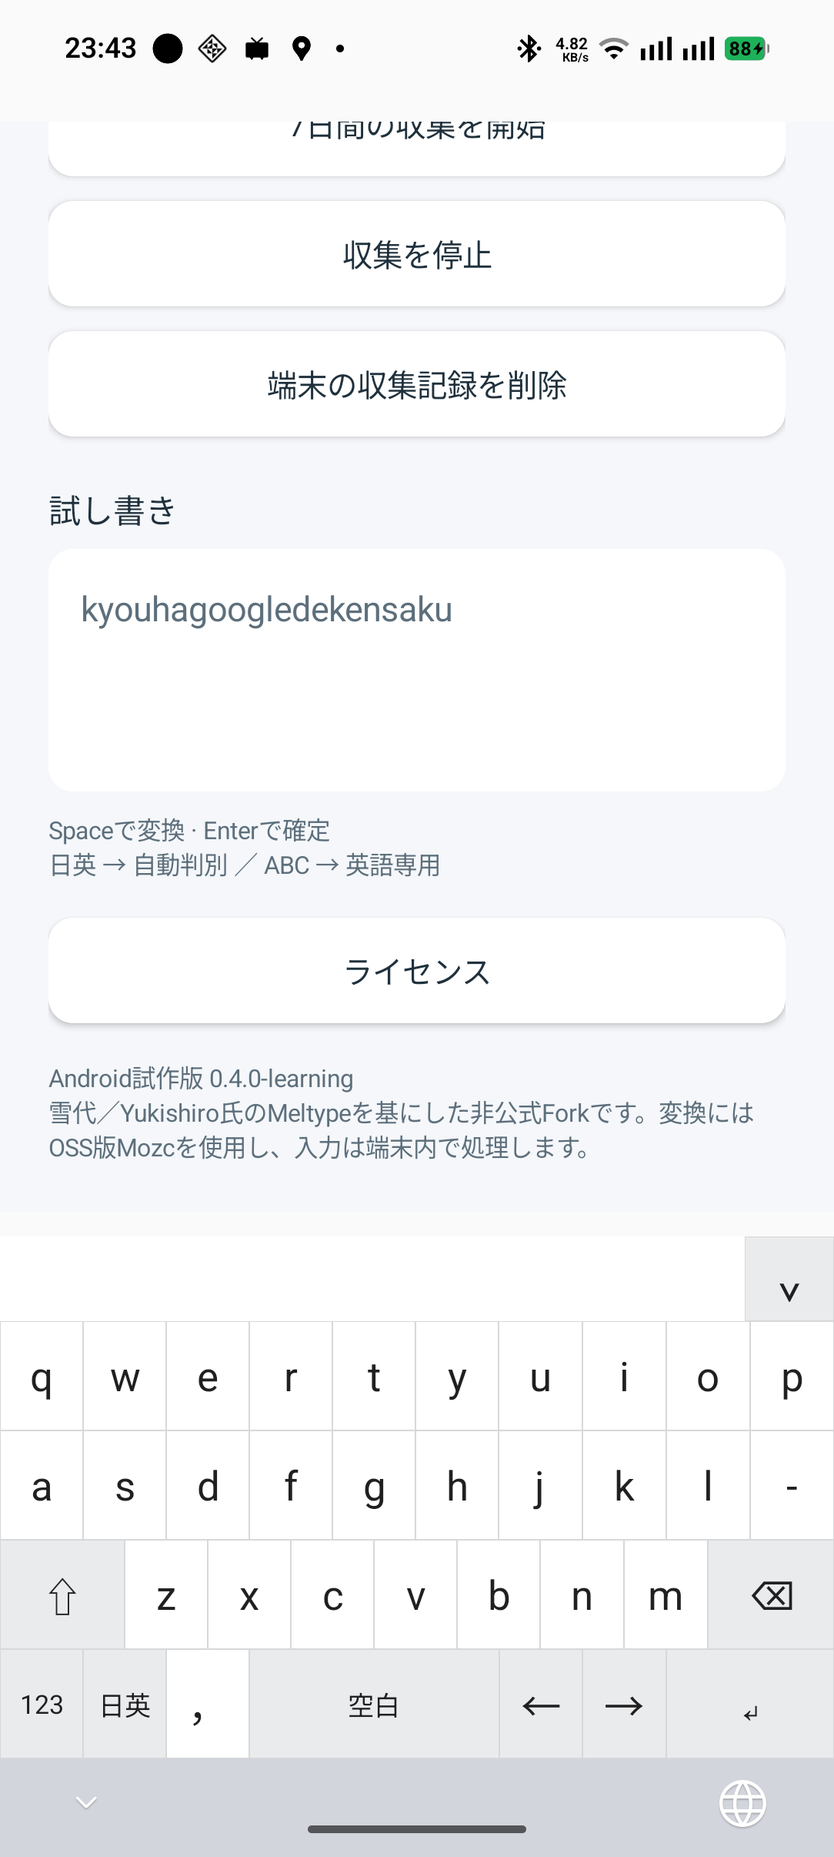
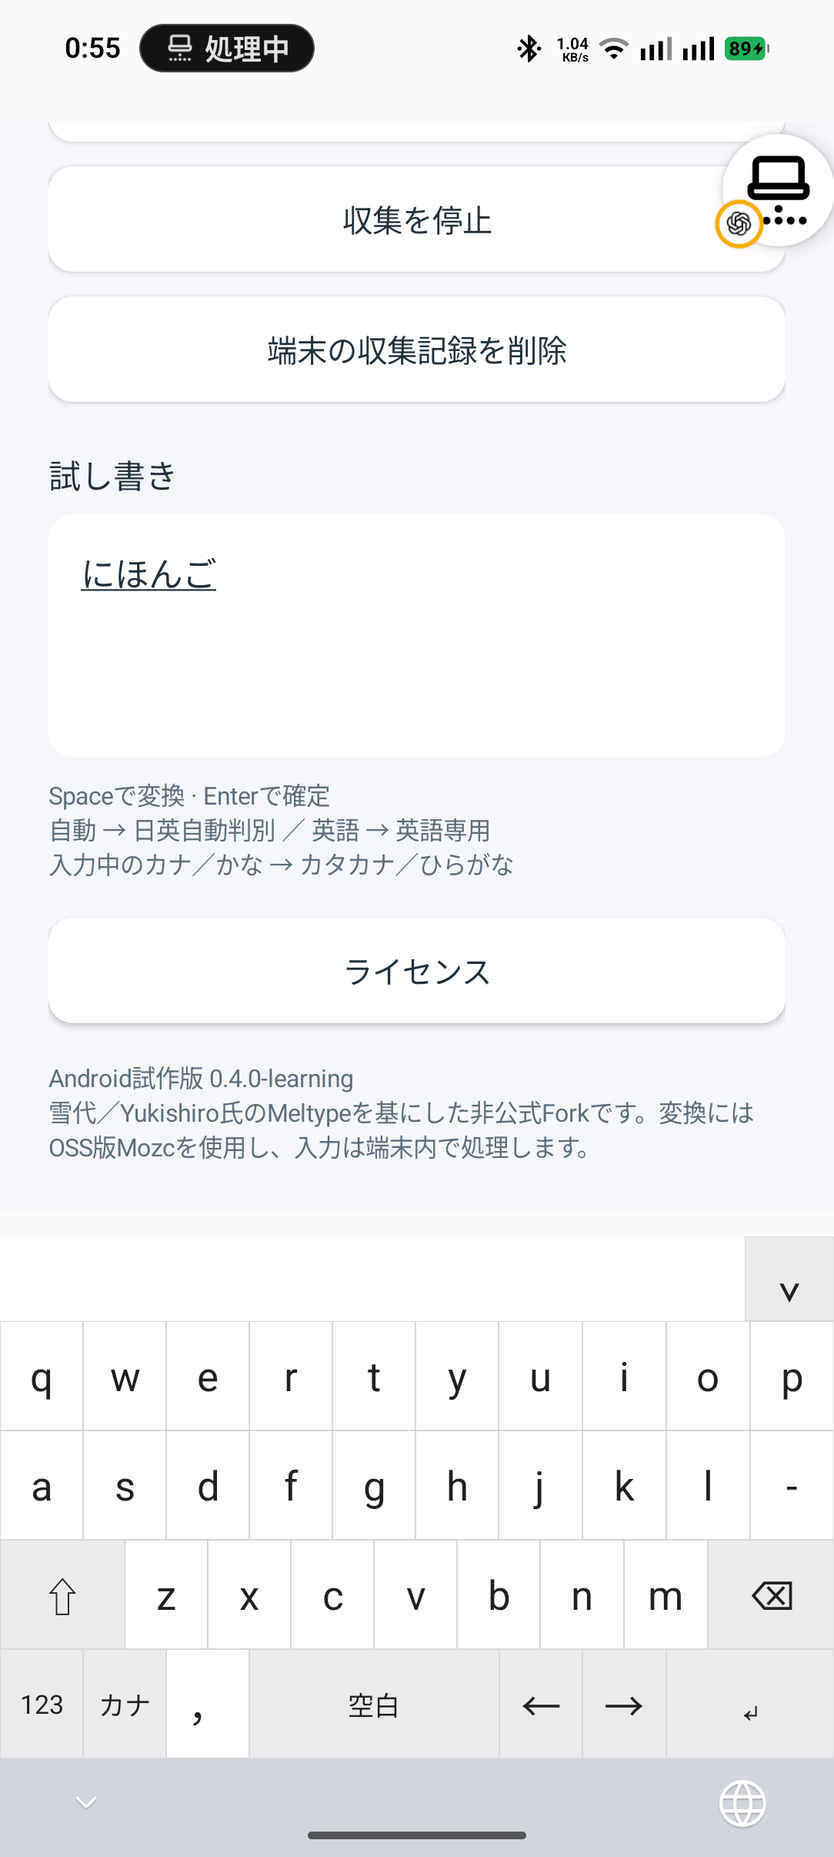
Androidの大文字固定と括弧入力とカナ切替を追加

diff --git a/android/Meltype.Android/KeyboardService.cs b/android/Meltype.Android/KeyboardService.cs
@@ -39,6 +39,7 @@ public sealed class KeyboardService : InputMethodService
     private Button? _hide;
     private LinearLayout? _keyRows;
     private bool _symbols;
+    private bool _shownKatakana;
     private readonly List<(Button Key, char Letter)> _letters = [];
     private bool _english, _restricted, _ready;
     private bool _preeditActive;
@@ -114,7 +115,7 @@ public sealed class KeyboardService : InputMethodService
         CancelTouches();
         _touches.Clear();
         _keyRows.RemoveAllViews(); _letters.Clear(); _shift = null;
-        foreach (var row in _symbols ? new[] { "1234567890", "@#¥%&-+()/", "「」.,?!:;\"" } : new[] { "qwertyuiop", "asdfghjkl-", "zxcvbnm" })
+        foreach (var row in _symbols ? new[] { "1234567890", "@#¥%&-+()/", "「」.,?!:;\"", "{}[]【】『』" } : new[] { "qwertyuiop", "asdfghjkl-", "zxcvbnm" })
         {
             var line = new LinearLayout(this) { BaselineAligned = false };
             var shortRow = row.Length == 7;
@@ -125,11 +126,13 @@ public sealed class KeyboardService : InputMethodService
             }
             foreach (var c in row)
             {
-                var key = AddKey(line, c.ToString(), () => Input(_shiftState.Apply(c)));
+                var pair = c switch { '(' => "()", '「' => "「」", '{' => "{}", '[' => "[]", '【' => "【】", '『' => "『』", _ => null };
+                var key = pair != null ? AddKey(line, pair, () => InsertBracketPair(pair), description: "括弧 " + pair + "を入力して内側へ移動")
+                    : AddKey(line, c.ToString(), () => Input(_shiftState.Apply(c)));
                 if (char.IsLetter(c)) _letters.Add((key, c));
             }
             if (shortRow) AddKey(line, "⌫", () => Special(0x08), 1.5f, description: "削除、長押しで連続削除", repeat: true);
-            else if (_symbols && row.StartsWith('「')) AddKey(line, "⌫", () => Special(0x08), description: "削除、長押しで連続削除", repeat: true);
+            else if (_symbols && row.StartsWith('{')) AddKey(line, "⌫", () => Special(0x08), description: "削除、長押しで連続削除", repeat: true);
             _keyRows.AddView(line);
         }
         var controls = new LinearLayout(this) { BaselineAligned = false };
@@ -140,13 +143,15 @@ public sealed class KeyboardService : InputMethodService
             _editCapture?.Cancel();
 #endif
             if (_restricted || !_ready) return;
+            if (!_english && !string.IsNullOrEmpty(_shownView?.Text))
+            { Queue(() => _session?.ToggleKana()); return; }
             _english = !_english;
             var english = _english;
             Queue(() => _session?.SetEnglish(english)); Status();
         }, description: "英語専用モードに切り替える");
         _punctuation = AddKey(controls, ",", () => Input(_punctuationInput));
         _punctuation.ContentDescription = "句読点、文末はピリオド、長押しでピリオド";
-        _punctuation.LongClick += (_, e) => { Input('.'); _shiftState.Reset(); Status(); e.Handled = true; };
+        _punctuation.LongClick += (_, e) => { Input('.'); _shiftState.Consume(); Status(); e.Handled = true; };
         AddKey(controls, "空白", () => Input(' '), 3, description: "空白・変換");
         AddKey(controls, "←", () => Special(0x25), description: "左へ移動");
         AddKey(controls, "→", () => Special(0x27), description: "右へ移動");
@@ -157,7 +162,7 @@ public sealed class KeyboardService : InputMethodService
     {
         var key = new Button(this) { Text = label, TextSize = label.Length > 1 ? 13 : 20, ContentDescription = description ?? label };
         key.SetSingleLine(true);
-        MobileStyle.KeyboardKey(key, function: label.Length > 1 || label is "⇧" or "⌫" or "↵" or "←" or "→"); Action invoke = () => { action(); if (label != "⇧") { _shiftState.Reset(); Status(); } };
+        MobileStyle.KeyboardKey(key, function: label.Length > 1 || label is "⇧" or "⌫" or "↵" or "←" or "→"); Action invoke = () => { action(); if (label != "⇧") { _shiftState.Consume(); Status(); } };
         key.Click += (_, _) => invoke();
         if (label != ",")
         {
@@ -214,7 +219,9 @@ public sealed class KeyboardService : InputMethodService
     }
     public override void OnFinishInputView(bool finishingInput)
     {
-        CancelTouches(); base.OnFinishInputView(finishingInput);
+        CancelTouches(); _shiftState.Reset();
+        if (_symbols) { _symbols = false; BuildKeyRows(); }
+        Status(); base.OnFinishInputView(finishingInput);
     }
     public override void OnUpdateSelection(int oldSelStart, int oldSelEnd, int newSelStart, int newSelEnd, int candidatesStart, int candidatesEnd)
     {
@@ -284,6 +291,7 @@ public sealed class KeyboardService : InputMethodService
     private void Output(int operation, string text, CompositionView? view)
     {
         var generation = _jobGeneration;
+        var katakana = _session?.Katakana == true;
         _main!.Post(() =>
         {
             if (generation != Volatile.Read(ref _generation)) return;
@@ -297,8 +305,9 @@ public sealed class KeyboardService : InputMethodService
             }
             else if (operation == 3) editor.DeleteSurroundingTextInCodePoints(int.Parse(text), 0);
             else if (operation == 4) Enter();
+            else if (operation == 7) { editor.CommitText(text, 1); _preeditActive = false; MoveCursor(Keycode.DpadLeft); }
             else if (operation is 5 or 6) MoveCursor(operation == 5 ? Keycode.DpadLeft : Keycode.DpadRight);
-            _shownView = view; RefreshPunctuation();
+            _shownView = view; _shownKatakana = katakana; Status();
             if (_hide != null) _hide.Visibility = view is { Candidates.Count: > 0 } ? ViewStates.Gone : ViewStates.Visible;
             var signature = view == null ? "" : string.Join('\0', view.Candidates.Take(24)) + "\u0001" + view.SelectedIndex;
             if (_candidateSignature == signature) return;
@@ -316,11 +325,19 @@ public sealed class KeyboardService : InputMethodService
 #if TRAINING_BUILD
                         FinishTrainingQueued();
 #endif
-                        _shiftState.Reset(); Status(); Queue(() => _session?.Select(index));
+                        _shiftState.Consume(); Status(); Queue(() => _session?.Select(index));
                     };
                     _candidates.AddView(button, new LinearLayout.LayoutParams(-2, Dp(42)));
                 }
         });
+    }
+    private void InsertBracketPair(string pair)
+    {
+#if TRAINING_BUILD
+        FinishTrainingQueued();
+#endif
+        if (_restricted) { CurrentInputConnection?.CommitText(pair, 1); MoveCursor(Keycode.DpadLeft); return; }
+        Queue(() => _session?.InsertBracketPair(pair));
     }
     private void MoveCursor(Keycode code)
     {
@@ -360,12 +377,15 @@ public sealed class KeyboardService : InputMethodService
         RefreshPunctuation();
         if (_mode != null)
         {
-            _mode.Text = _restricted || _english ? "ABC" : "日英";
-            _mode.ContentDescription = _english ? "日英自動判別に戻る" : "英語専用モードに切り替える";
+            var pending = !_restricted && !_english && !string.IsNullOrEmpty(_shownView?.Text);
+            _mode.Text = pending ? (_shownKatakana ? "かな" : "カナ") : _restricted || _english ? "英語" : "自動";
+            _mode.ContentDescription = pending ? (_shownKatakana ? "未確定文字をひらがなにする" : "未確定文字をカタカナにする") : _english ? "日英自動判別に戻る" : "英語専用モードに切り替える";
             _mode.Enabled = _ready && !_restricted;
         }
         foreach (var (key, letter) in _letters) key.Text = (_shiftState.Active ? char.ToUpperInvariant(letter) : letter).ToString();
-        if (_shift != null) _shift.SetTypeface(null, _shiftState.Active ? TypefaceStyle.Bold : TypefaceStyle.Normal);
+        if (_shift != null) { _shift.Text = _shiftState.Locked ? "⇪" : "⇧";
+            _shift.ContentDescription = _shiftState.Locked ? "大文字固定を解除" : "Shift、2回押すと大文字固定";
+            _shift.SetTypeface(null, _shiftState.Active ? TypefaceStyle.Bold : TypefaceStyle.Normal); }
     }
     public override void OnDestroy()
     {

diff --git a/android/tools/test_input_actions.py b/android/tools/test_input_actions.py
@@ -1,0 +1,51 @@
+"""Exercise the requested keyboard actions in the app's non-learning trial field."""
+import runpy
+import time
+from pathlib import Path
+ns = runpy.run_path(str(Path(__file__).with_name('test_setup_editor.py')))
+adb, tree, edges, package = (ns[k] for k in ('adb', 'tree', 'edges', 'PACKAGE'))
+cache = {}
+def find(description):
+    cache.clear()
+    cache.update({n.get('content-desc'): n for n in tree().iter('node') if n.get('package') == package and n.get('content-desc')})
+    return cache[description]
+def tap(description):
+    l,t,r,b = edges(cache.get(description) if description in cache else find(description)); adb('shell','input','tap',str((l+r)//2),str((t+b)//2)); time.sleep(.15)
+    if description in ('数字・記号と英字配列を切り替える','キーボードを閉じる'): cache.clear()
+def text():
+    return next(n.get('text') for n in tree().iter('node') if n.get('resource-id') == package + ':id/test_editor')
+def fresh():
+    cache.clear()
+    runpy.run_path(str(Path(__file__).with_name('test_setup_editor.py')))
+assert find('英語専用モードに切り替える').get('text') == '自動'
+tap('英語専用モードに切り替える')
+assert find('日英自動判別に戻る').get('text') == '英語'
+tap('Shift、2回押すと大文字固定'); tap('Shift、2回押すと大文字固定')
+tap('a'); tap('b')
+assert text() == 'AB', 'Caps Lock did not persist'
+tap('大文字固定を解除'); tap('c')
+assert text() == 'ABc', 'Caps Lock did not release'
+tap('数字・記号と英字配列を切り替える'); tap('括弧 ()を入力して内側へ移動')
+tap('数字・記号と英字配列を切り替える'); tap('x')
+assert text() == 'ABc(x)', 'Bracket cursor did not move inside'
+expected = 'ABc(x'
+for pair in ('「」', '{}', '[]', '【】', '『』'):
+    tap('数字・記号と英字配列を切り替える')
+    tap('括弧 ' + pair + 'を入力して内側へ移動')
+    tap('数字・記号と英字配列を切り替える'); tap('x')
+    expected += pair[0] + 'x'
+assert text() == expected + '』】]}」)', 'Nested bracket cursors did not move inside all six pairs'
+
+tap('数字・記号と英字配列を切り替える'); tap('キーボードを閉じる')
+root = tree(); editor = next(n for n in root.iter('node') if n.get('resource-id') == package + ':id/test_editor')
+l,t,r,b = edges(editor); adb('shell','input','tap',str((l+r)//2),str((t+b)//2)); time.sleep(.5)
+find('q')
+fresh()
+for c in 'nihongo': tap(c)
+tap('空白・変換')
+assert find('未確定文字をカタカナにする').get('text') == 'カナ'
+tap('未確定文字をカタカナにする')
+assert text() == 'ニホンゴ', 'Katakana action committed or lost conversion'
+assert find('未確定文字をひらがなにする').get('text') == 'かな'; tap('未確定文字をひらがなにする')
+assert text() == 'にほんご', 'Hiragana action failed'
+print('PASS: Caps Lock, symbol layout reset, all six bracket cursors, kana conversion and key labels')

diff --git a/android/Meltype.Android.Tests/Program.cs b/android/Meltype.Android.Tests/Program.cs
@@ -46,6 +46,35 @@ shift.Toggle(); shift.Reset();
 if (shift.Active || shift.Apply('a') != 'a') throw new Exception("Other key did not release Shift.");
 Console.WriteLine("PASS: punctuation prediction follows output; Shift releases after one character or other action");
 
+shift.Toggle(); shift.Toggle();
+if (!shift.Locked || shift.Apply('a') != 'A' || shift.Apply('b') != 'B') throw new Exception("Double Shift did not lock capitals.");
+shift.Consume();
+if (!shift.Locked) throw new Exception("Other action cleared Caps Lock.");
+shift.Toggle();
+if (shift.Active || shift.Locked) throw new Exception("Shift did not unlock capitals.");
+var modeOps = new List<(int Op, string Text)>();
+var modes = new AndroidInputSession(new FakeConverter(), _ => [], (op, text, _) => modeOps.Add((op,text)));
+foreach (var c in "nihongo") modes.Character(c);
+modes.Character(' '); modeOps.Clear(); modes.ToggleKana();
+if (modes.View?.Text != "ニホンゴ" || !modes.Katakana || modeOps.Any(o => o.Op == 1)) throw new Exception("Kana toggle committed or lost text.");
+modes.ToggleKana();
+if (modes.View?.Text != "にほんご" || modes.Katakana) throw new Exception("Hiragana toggle failed.");
+modeOps.Clear(); modes.InsertBracketPair("()");
+if (!modeOps.Any(o => o.Op == 1 && o.Text == "にほんご") || modeOps.Last() != (7,"()") || modes.View != null) throw new Exception("Bracket insertion did not preserve composition and move inside.");
+modes.SetEnglish(true); modeOps.Clear(); modes.InsertBracketPair("()");
+if (modeOps.Last() != (7,"()")) throw new Exception("English bracket insertion failed.");
+foreach (var pair in new[] { "()", "「」", "{}", "[]", "【】", "『』" })
+{
+    modes.SetEnglish(false); modes.Reset(); modeOps.Clear();
+    foreach (var c in "nihongo") modes.Character(c);
+    modes.InsertBracketPair(pair);
+    if (!modeOps.Any(o => o.Op == 1 && o.Text == "日本語") || modeOps.Last() != (7,pair) || modes.View != null)
+        throw new Exception("Bracket pair did not preserve pending composition: " + pair);
+    modes.SetEnglish(true); modeOps.Clear(); modes.InsertBracketPair(pair);
+    if (modeOps.Last() != (7,pair)) throw new Exception("English bracket pair failed: " + pair);
+}
+Console.WriteLine("PASS: Caps Lock, kana toggle without confirmation, all six bracket pairs after composition");
+
 var converter = new FakeConverter();
 var document = "";
 var preedit = "";

diff --git a/android/tools/test_keyboard_ui.py b/android/tools/test_keyboard_ui.py
@@ -73,9 +73,11 @@ assert adb("shell", "settings", "get", "secure", "default_input_method") == meth
 editor_id = package + ":id/test_editor"
 tap(find("resource-id", editor_id))
 find("content-desc", "英語専用モードに切り替える")
-tap(find("content-desc", "大文字・小文字を切り替える"))
+tap(find("content-desc", "Shift、2回押すと大文字固定"))
 assert find("content-desc", "q").get("text") == "Q", "Shift does not update letter labels"
-tap(find("content-desc", "大文字・小文字を切り替える"))
+tap(find("content-desc", "Shift、2回押すと大文字固定"))
+assert find("content-desc", "q").get("text") == "Q", "Double Shift did not lock capitals"
+tap(find("content-desc", "大文字固定を解除"))
 assert find("content-desc", "q").get("text") == "q"
 keys = {node.get("content-desc"): node for node in tree().iter("node") if node.get("class") == "android.widget.Button"}
 find("content-desc", "キーボードを閉じる")
@@ -99,8 +101,8 @@ tap(find("content-desc", "候補 0"))
 tap(find("content-desc", "英語専用モードに切り替える"))
 mode = find("content-desc", "日英自動判別に戻る")
 assert find("content-desc", "句読点、文末はピリオド、長押しでピリオド").get("text") == ",", "English punctuation label is not comma"
-assert mode.get("text") == "ABC"
-tap(find("content-desc", "大文字・小文字を切り替える"))
+assert mode.get("text") == "英語"
+tap(find("content-desc", "Shift、2回押すと大文字固定"))
 tap(find("content-desc", "a"))
 assert find("content-desc", "b").get("text") == "b", "Shift remained active after one character"
 tap(find("content-desc", "b"))
@@ -110,7 +112,7 @@ for letter in "abc":
 assert find("resource-id", editor_id).get("text", "").endswith("abc"), "English mode is not direct input"
 capture("android-english.png")
 tap(mode)
-assert find("content-desc", "英語専用モードに切り替える").get("text") == "日英"
+assert find("content-desc", "英語専用モードに切り替える").get("text") == "自動"
 
 # Start with an empty editor, then verify the unconfirmed suffix separately
 # from the editor text (which also contains the confirmed prefix).

diff --git a/android/Meltype.Android.Core/AndroidInputSession.cs b/android/Meltype.Android.Core/AndroidInputSession.cs
@@ -17,6 +17,18 @@ public sealed class AndroidInputSession : ICompositionHost
     private static readonly string[] SentenceEndings =
         ["です", "ます", "でした", "ました", "ません", "ない", "なかった", "だった", "である", "だ", "と思う", "と思います"];
     public CompositionView? View { get; private set; }
+    public bool Katakana { get; private set; }
+    public void ToggleKana()
+    {
+        if (_english || string.IsNullOrEmpty(View?.Text)) return;
+        Katakana = !Katakana;
+        Key(Katakana ? 0x76 : 0x75);
+    }
+    public void InsertBracketPair(string pair)
+    {
+        _controller.CommitPending();
+        _output(7, pair, null);
+    }
 
     public AndroidInputSession(IKanjiConverter converter, Func<string, IReadOnlyList<string>> candidates,
         Action<int, string, CompositionView?> output, Func<InputPreferences>? preferences = null, bool learningAllowed = true,
@@ -86,14 +98,14 @@ public sealed class AndroidInputSession : ICompositionHost
         _controller.CommitSelectedPrefix();
     }
     public void Commit() => _controller.CommitPending();
-    public void Reset() { _controller.Reset(); _controller.ResetContext(); _gate.Abort(); View = null; }
+    public void Reset() { _controller.Reset(); _controller.ResetContext(); _gate.Abort(); Katakana = false; View = null; }
     public void CommitText(string text) => _output(1, text, null);
     public void Show(CompositionView view)
     {
         View = view.Converting ? view : _controller.LiveCandidateView(view);
         _output(0, View.Text, View);
     }
-    public void Hide() { View = null; _output(2, "", null); }
+    public void Hide() { Katakana = false; View = null; _output(2, "", null); }
     public void DeleteBackward(int count) => _output(3, count.ToString(), null);
     public void Replay(KeyEvent e)
     {

diff --git a/android/Meltype.Android/MainActivity.cs b/android/Meltype.Android/MainActivity.cs
@@ -45,7 +45,7 @@ public sealed class MainActivity : Activity
         title.AddView(Label("Meltype", 28, MobileStyle.Ink));
         title.AddView(Label("ローマ字で、日英をそのまま。", 13, MobileStyle.Muted));
         header.AddView(title); layout.AddView(header);
-        var intro = Label("日本語はライブ変換。英語は英字のまま。\n日英ボタンで英語専用モードにも切り替えられます。", 14, MobileStyle.Muted);
+        var intro = Label("日本語はライブ変換。英語は英字のまま。\n「自動／英語」ボタンで入力モードを切り替えられます。", 14, MobileStyle.Muted);
         intro.SetPadding(0, Dp(16), 0, Dp(20)); layout.AddView(intro);
         _setupStatus = Label("設定を確認しています…", 14, MobileStyle.Accent);
         _setupStatus.SetPadding(Dp(16), Dp(14), Dp(16), Dp(14));
@@ -143,7 +143,7 @@ public sealed class MainActivity : Activity
         editor.Background = MobileStyle.Rounded(this, Color.White);
         editor.SetPadding(Dp(16), Dp(16), Dp(16), Dp(16));
         layout.AddView(editor, new LinearLayout.LayoutParams(-1, Dp(120)));
-        var tip = Label("Spaceで変換 · Enterで確定\n日英 → 自動判別 ／ ABC → 英語専用", 12, MobileStyle.Muted);
+        var tip = Label("Spaceで変換 · Enterで確定\n自動 → 日英自動判別 ／ 英語 → 英語専用\n入力中のカナ／かな → カタカナ／ひらがな", 12, MobileStyle.Muted);
         tip.SetPadding(0, Dp(10), 0, Dp(6)); layout.AddView(tip);
         Add("ライセンス", () =>
         {

diff --git a/android/tools/test_flat_keyboard_rows.py b/android/tools/test_flat_keyboard_rows.py
@@ -15,7 +15,7 @@ keys = {n.get('content-desc'): list(map(int, re.findall(r'\d+', n.get('bounds'))
         for n in tree.iter('node') if n.get('package') == 'jp.aonesenbongi.meltype.learning'
         and n.get('class') == 'android.widget.Button' and n.get('content-desc')}
 for row in [list('qwertyuiop'), list('asdfghjkl-'),
-            ['大文字・小文字を切り替える', *list('zxcvbnm'), '削除、長押しで連続削除'],
+            ['Shift、2回押すと大文字固定', *list('zxcvbnm'), '削除、長押しで連続削除'],
             ['数字・記号と英字配列を切り替える', '英語専用モードに切り替える',
              '句読点、文末はピリオド、長押しでピリオド', '空白・変換', '左へ移動', '右へ移動', '確定・改行']]:
     missing = [key for key in row if key not in keys]

diff --git a/android/Meltype.Android.Core/KeyboardShift.cs b/android/Meltype.Android.Core/KeyboardShift.cs
@@ -4,11 +4,18 @@ namespace Meltype.AndroidCore;
 public sealed class KeyboardShift
 {
     public bool Active { get; private set; }
-    public void Toggle() => Active = !Active;
-    public void Reset() => Active = false;
+    public bool Locked { get; private set; }
+    public void Toggle()
+    {
+        if (Locked) Reset();
+        else if (Active) Locked = true;
+        else Active = true;
+    }
+    public void Consume() { if (!Locked) Active = false; }
+    public void Reset() { Active = false; Locked = false; }
     public char Apply(char character)
     {
         var result = Active ? char.ToUpperInvariant(character) : character;
-        Reset(); return result;
+        Consume(); return result;
     }
 }

diff --git a/docs/KEYBOARD_APPEARANCE.md b/docs/KEYBOARD_APPEARANCE.md
@@ -1,5 +1,11 @@
 # キーボードの表示
 
-未公開の新版は、ユーザーが提示したSimejiの配列を維持し、文字キーを白、操作キーを薄い灰色にする。細い灰色の区切り線と黒い文字で表示する。角丸のキー、キー間の余白、影、押下時の陰影とアニメーションを外す。候補欄は白、閉じるボタンは薄い灰色に揃える。選択中の候補と有効なShiftは太字、日英モードは「日英／ABC」の文字で区別する。
+未公開の新版は、ユーザーが提示したSimejiの配列を維持し、文字キーを白、操作キーを薄い灰色にする。細い灰色の区切り線と黒い文字で表示する。角丸のキー、キー間の余白、影、押下時の陰影とアニメーションを外す。候補欄は白、閉じるボタンは薄い灰色に揃える。選択中の候補と有効なShiftは太字、日英モードは「自動／英語」の文字で区別する。
 
 キーの54dpのタッチ範囲、押下時の入力、削除の長押し、句読点の長押し、配列と下部のナビゲーション余白を保持する。色と表示のみを変更し、収集・変換・辞書の設定や履歴を移行・削除しない。通常版と学習用版へ同じ表示を適用する。
+
+## 入力操作（2026年10月8日）
+
+Shiftは1回で次の1文字、続けて2回で大文字を固定する。固定中は「⇪」で表示し、Shiftを押すと解除する。数字・記号配列で閉じた場合も、次の表示は通常の英字配列へ戻す。記号配列に1段追加し、「()」「「」」「{}」「[]」「【】」「『』」は一組を入力してカーソルを内側へ移す。閉じ括弧単体のキーも保持する。既存の未確定文字は先に確定する。
+
+日本語の未確定文字がある間はモードキーを「カナ」と1行で表示する。押すと未確定文字をカタカナにし、キーを「かな」へ切り替える。再度押すとひらがなへ戻す。未確定文字がない場合は従来の日英自動判別と英語専用モードの切替を維持する。
